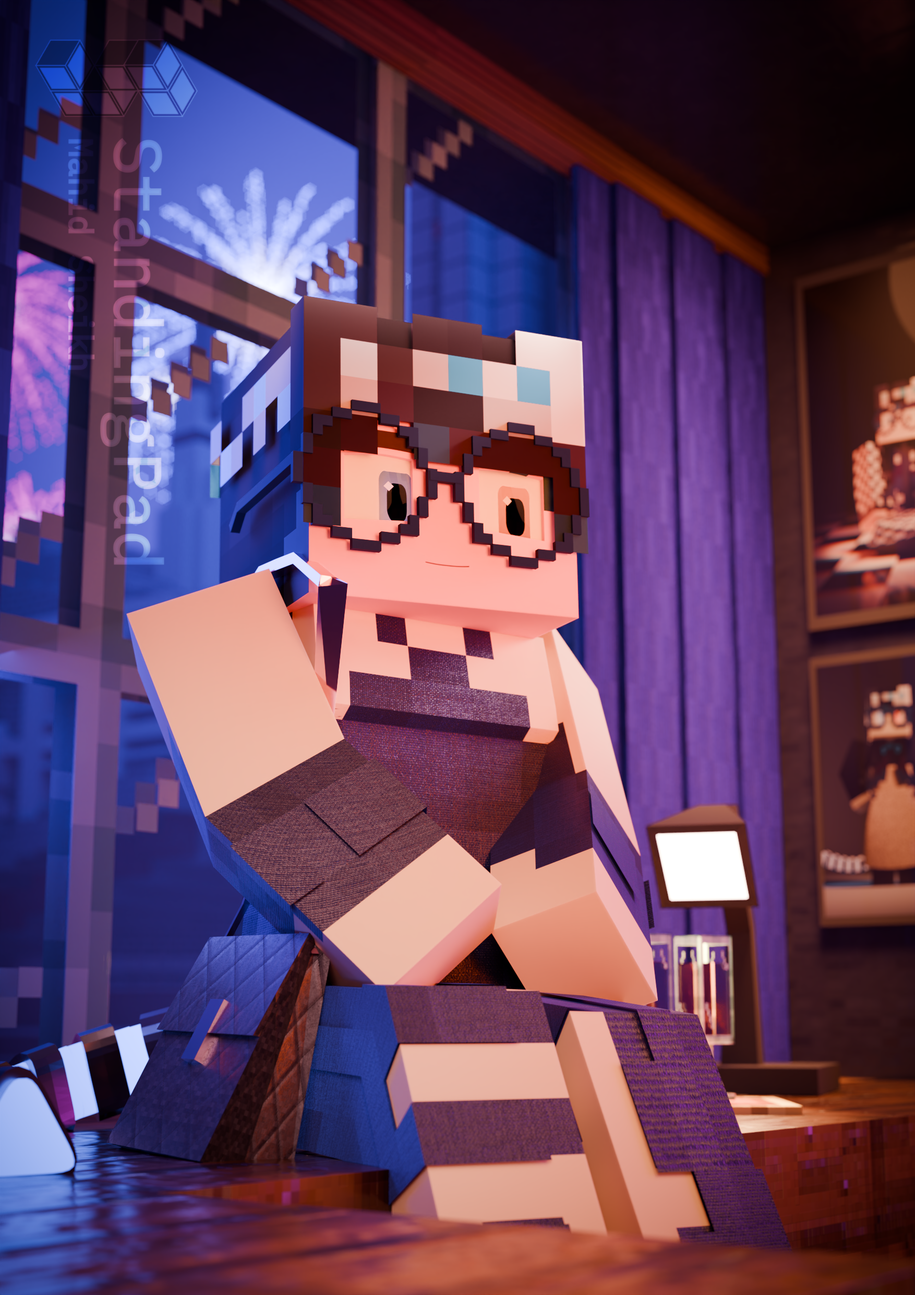
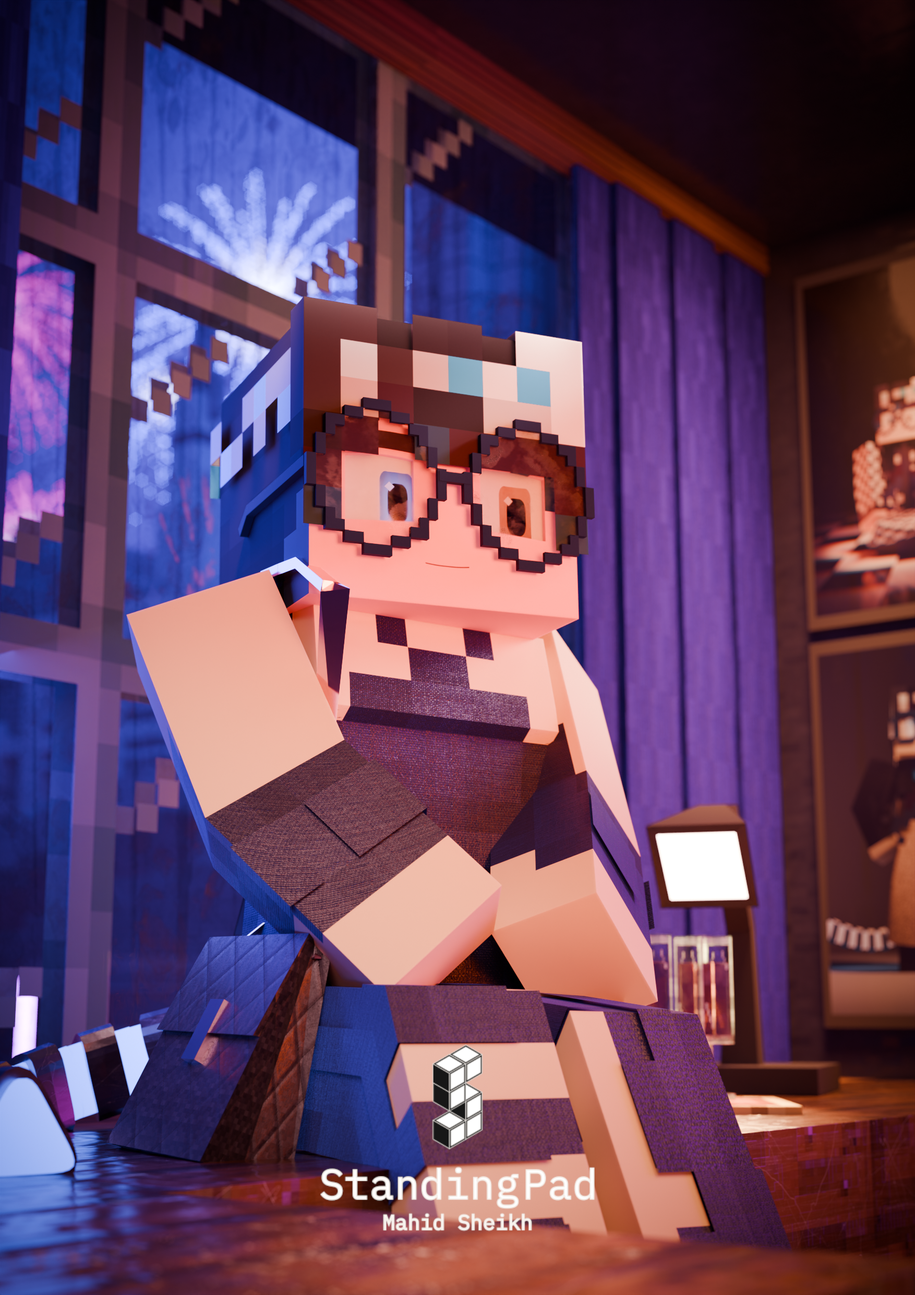
Finished new years post

diff --git a/content/posts/2023/12/new-years/index.md b/content/posts/2023/12/new-years/index.md
@@ -1,13 +1,13 @@
 ---
 title: "It's New Year's! Some updates going forward"
-date: 2023-12-31
+date: 2023-12-28
 draft: true 
 tags:
   - Blender 
   - IRL
 ---
 
-It's New Year's, so you know what that means! Another New Year's render, but first some life updates to go through (ugh, I know). If you want to skip all of this, then click the button.
+It's almost New Year's, so you know what that means! Another New Year's render, but first some life updates to go through (ugh, I know). If you want to skip all of this, then click the button.
 
 {{< button href="#this-years-new-years-render" target="_self" >}}
 Skip
@@ -27,7 +27,7 @@ On some sadder news, I can't make as much art as I used to in the past. Mostly b
 
 I'm also doing a personal rebrand of myself as an artist (in conjunction with the previous section), so I've made a new logo and watermark (SVGs below):
 {{< figure src="gallary/logo-cube.svg" caption="New Logo" >}}
-{{< figure src="gallary/watermark-cube.svg" caption="New Watermark" >}}
+{{< figure default=true src="gallary/watermark-cube.svg" width=600 caption="New Watermark" >}}
 
 # This Year's New Year's Render 
 ~~(that title is a bit of a mouthful)~~
@@ -36,7 +36,7 @@ With all of that out of the way, if you're just here for the render, here it is,
 
 {{< image src="gallary/NY-2023-2024.webp" alt="New year render" position="center" style="border-radius: 8px;" >}}
 
-But I assume you want to know a bit more on how it's made if you're on the blog post for it (why else would you be here after all?), so here's a breakdown of some of the new things I did for this particular piece.
+One of the fun things about making these every year is trying to outdo last year's version of me, so here's a breakdown of some of the new things I did for this particular piece.
 
 ## Vivy
 One of the things I've been working on is Vivy: an in-house fork of MCprep with a much improved materials system. I've been rambling a bit about it on Mastodon the past couple of months.
@@ -67,6 +67,8 @@ In the past, I would just have a mess of an outliner.
 but now I actually needed to have something organized to manage the mess. I did this by having a seperate forground and background collection, and seperating everything into those 2 collections. This allowed me to easily hide the background (unneeded 90% of the time) and unhide it when it came time to render.
 {{< image src="gallary/outliner.webp" alt="Organized outliner with foreground and background, and seperate collections for everything else" position="center" style="border-radius: 8px;" >}}
 
+*Note: There's some additional stuff I added after taking this screenshot, but I think you get the point. ~~Plus, the additional stuff are inuendos ;D. Happy searching!~~*
+
 It was with this trick that allowed me to continue working on a simple laptop. For further optimization, I even split the OBJ in 2 to allow seperate background and forground pieces.
 {{< image src="gallary/background.webp" alt="Full OBJ" position="center" style="border-radius: 8px;" >}}
 {{< image src="gallary/foreground.webp" alt="Just the foreground" position="center" style="border-radius: 8px;" >}}
@@ -80,5 +82,72 @@ It's quite obvious on the dress and purse, but I also used higher resolution tex
 {{< image src="gallary/md-1.webp" alt="Micro-detailing on the dress" position="center" style="border-radius: 8px;" >}}
 {{< image src="gallary/md-2.webp" alt="Micro-detailing on the purse" position="center" style="border-radius: 8px;" >}}
 
-It's far from perfect, but it'll only get better.
+In addition, I added surface imperfections to this  particular render, such as scratches on metal, smudges on glass, grunge on the window, etc:
+{{< image src="gallary/md-3.webp" alt="Scratches and smudges on the metal of Kaiyona's tail" position="center" style="border-radius: 8px;" >}}
+{{< image src="gallary/md-4.webp" alt="Grunge on the window from past rain" position="center" style="border-radius: 8px;" >}}
+{{< image src="gallary/md-5.webp" alt="Scratches on wood" position="center" style="border-radius: 8px;" >}}
+{{< image src="gallary/md-6.webp" alt="Smudges on Kaiyona's glasses" position="center" style="border-radius: 8px;" >}}
 
+I began experimenting with stuff like this (minus surface imperfections) a while back in some earlier pieces, like with stockings:
+<iframe src="https://mastodon.art/@standingpad/111443670325055646/embed" class="mastodon-embed" style="max-width: 100%; border: 0" width="600" allowfullscreen="allowfullscreen"></iframe><script src="https://mastodon.art/embed.js" async="async"></script>
+
+And denim:
+<iframe src="https://mastodon.art/@standingpad/111355710456162153/embed" class="mastodon-embed" style="max-width: 100%; border: 0" width="600" allowfullscreen="allowfullscreen"></iframe><script src="https://mastodon.art/embed.js" async="async"></script>
+
+There's several reasons I did this, but the main one being that's unique. Yes, there are already artists who do "realistic Minecraft rendering", but I have yet to see one that did it within the bounds of Minecraft itself.
+
+Part of it (indirectly) is also to make it harder for AI to replicate. I think David Revoy puts it best on his blog post ["My Brushstrokes against AI-art"](https://www.davidrevoy.com/article1007/my-brushstrokes-against-ai-art)
+> Do you want to know the irony of all this? These developments towards a stronger personal style in my art, though I am pained to admit it, come from the pressure of the existence of AI-generated images.
+
+While indirect, I did find that with the rise of AI in art, I started using more and more complex tricks in my rendering. Is it coincidence? Probably, but it's still interesting nonetheless.
+
+## Rigging 
+When I started putting together the scene back in late November, an issue I encountered a lot was Blender crashing. While now I know this was due to [bad organization](#optimizing-scenes-for-laptops), at the time I only had the Blender logs to work with, and I concluded it was the rig's circular dependencies causing the problem.
+
+"Circular dependencies?"
+
+In rigging, armatures often depend on drivers or constraints, and these drivers/constraints can depend on bones. This creates a "dependency chain".
+{{< image src="gallary/dep-chain.webp" alt="Chain of dependencies" position="center" style="border-radius: 8px;" >}}
+
+However, a circular dependency chain can occur if a bone depends on something that, at some point, depends on the bone itself.
+{{< image src="gallary/circle-dep-chain.webp" alt="Circular chain of dependencies" position="center" style="border-radius: 8px;" >}}
+
+Normally this isn't too bad, but should be fixed since it can cause crashes. At the time, I was using BPS V3, specifically from Ocean Monument, made all the way back in Blender 2.8. The rig has some annoying circular dependencies, so I decided to try and make my own rig.
+
+Now eventually I decided to try and fix BPS V3, but....
+<iframe src="https://mastodon.art/@standingpad/111381558631287127/embed" class="mastodon-embed" style="max-width: 100%; border: 0" width="600" allowfullscreen="allowfullscreen"></iframe><script src="https://mastodon.art/embed.js" async="async"></script>
+
+3 words: Zophiekat Black Magic (Zophiekat was the one who made BPS V3)
+
+Eventually I get my rig finished (in fact, [the post with Kaiyona in stockings](https://mastodon.art/@standingpad/111443670325055646) used the new rig), but by then I figured out the actual cause for crashes, so this is the last piece that'll be using BPS V3.
+
+Goodbye BPS V3, you were a pain in the ass on the final stretch. I'll be making a seperate post on the new rig later.
+
+## How Things Could Have Been Different
+Work on this particular render began all the way back in October, with skin making and purse modeling, with the actual scene building in late November. In between, I was working on [my laptop to PC workflow](#optimizing-scenes-for-laptops) and traveling to Pakistan to visit family. I made a first render on December 3rd, and the final render you see here was rendered on December 23rd. In comparison, last year's render for New Year's was made throughout the span of a week.
+{{< image src="gallary/timeline.webp" alt="Timeline" position="center" style="border-radius: 8px;" >}}
+
+As such, this scene changed massively as I continued to work on it for a month. Initially, I wanted to make this an outdoor scene, so I worked a lot on outdoor lighting:
+<iframe src="https://mastodon.art/@standingpad/111366573343749299/embed" class="mastodon-embed" style="max-width: 100%; border: 0" width="600" allowfullscreen="allowfullscreen"></iframe><script src="https://mastodon.art/embed.js" async="async"></script>
+
+However, I wasn't a huge fan of it, so I modelled a basic interior with some pink lighting:
+<iframe src="https://mastodon.art/@standingpad/111389974371471862/embed" class="mastodon-embed" style="max-width: 100%; border: 0" width="600" allowfullscreen="allowfullscreen"></iframe><script src="https://mastodon.art/embed.js" async="async"></script>
+
+I think I have to explain my thought process here. I had an idea that never came to fruition of Blobby registering Kaiyona for a Tinder and getting a match (stupid I know)
+{{< image src="gallary/idea.webp" alt="Discord message that says \"I got a stupid idea. Blobby: \"mom I made you a Tinder and someone wants to meet you :D\" Kaiyona: \"That's ni- WAIT WHAT?\"" position="center" style="border-radius: 8px;" >}}
+
+By the way Blobby is this blob. He's not a common character I use anymore, maybe I should bring him back:
+{{< image src="gallary/blobby.webp" alt="BLOBBY!" position="center" style="border-radius: 8px;" >}}
+
+As I was thinking out the idea a bit further, I figured a good match in this hypothetical scenario would be the implied cameraman stuck in Blender:
+{{< image src="gallary/camera-man.png" alt="Message: Alright I got it... the camera man. I got a good name idea too: Keith" position="center" style="border-radius: 8px;" >}}
+
+So while technically not an actual characther (yet...), I did imagine this would be taking place at a date with Keith. 
+
+Now see, camera nerds tend to have a lot of lights, crazy ones at that, so I'd imagine the pink light wouldn't be out of place (especially with all of the other ights). Eventually I added some extra lights to get something close to what we have:
+<iframe src="https://mastodon.art/@standingpad/111396104549605759/embed" class="mastodon-embed" style="max-width: 100%; border: 0" width="600" allowfullscreen="allowfullscreen"></iframe><script src="https://mastodon.art/embed.js" async="async"></script>
+
+And that's basically the final major change. Now that I think about it, I could have made the background more intersting, but I think it's best to save those for future pieces.
+
+# Happy New Year's 
+I think I'll stop here since this post is getting near 2000 words. I wish y'all a happy new year's, and cya next year!
